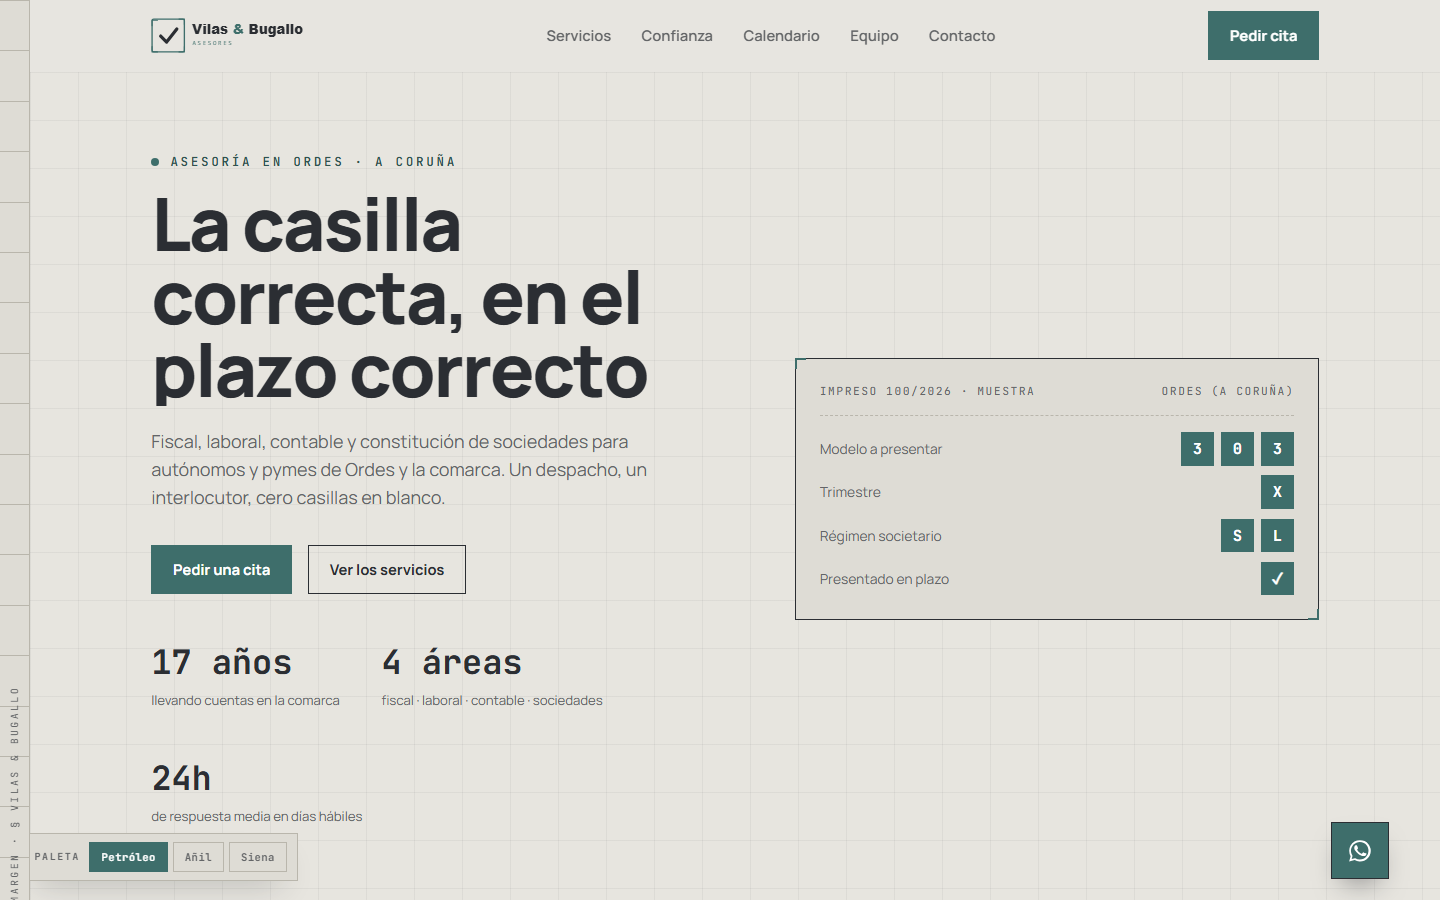
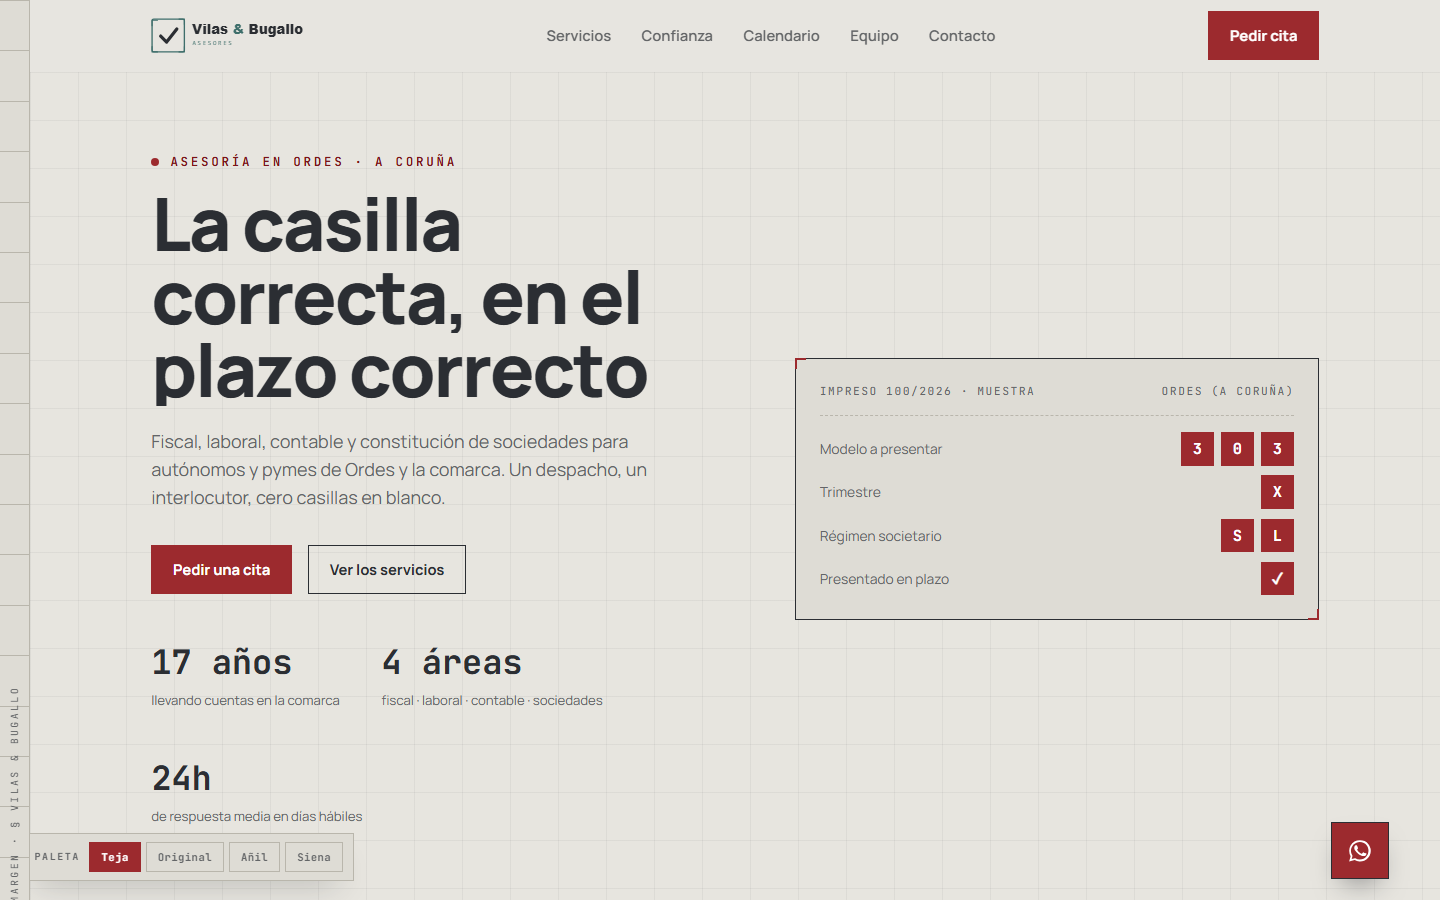
Pone el rojo real de Dourado & Fernández como paleta por defecto
Las 7 plantillas de asesoría/gestoría de la carpeta se van a enviar por
email al cliente real Dourado & Fernández para que compare estructura, no
color; Dourado ya tiene su propia web en su rojo real (--oro/--oro-tinta,
#9C2A2E/#7A1418). Para que las 7 lleguen ya en "su" color y el color deje
de ser una variable, ese rojo pasa a ser el valor por defecto en frío de
--petroleo/--petroleo-oscuro en :root (recalculado con scripts/contrast.js
para estos hexadecimales concretos, no asumido por parecido: 7.54:1 y
8.59:1, ambos por encima de los mínimos documentados).

El petróleo nativo de esta plantilla no desaparece: se convierte en un 4º
botón "Original" del mando de paleta (html.paleta-original), junto a
"Teja" (nuevo estado por defecto, sin clase), Añil y Siena. Actualizados
initPaleta() en js/main.js, el script bloqueante del <head>, el README y
scripts/verify.js (55/55, antes 54/54).

diff --git a/scripts/verify.js b/scripts/verify.js
@@ -376,25 +376,44 @@ async function recorrer(p, paso = 500, espera = 130) {
       const cs = getComputedStyle(document.documentElement);
       return {
         visible: document.getElementById('paleta').hidden === false,
-        pressed: document.getElementById('paleta-petroleo').getAttribute('aria-pressed'),
+        pressed: document.getElementById('paleta-teja').getAttribute('aria-pressed'),
+        sinClase: !document.documentElement.classList.contains('paleta-original') &&
+          !document.documentElement.classList.contains('paleta-anil') &&
+          !document.documentElement.classList.contains('paleta-siena'),
         petroleo: cs.getPropertyValue('--petroleo').trim()
       };
     });
-    ok('paleta: el mando aparece con JS y arranca en Petróleo',
-      inicial.visible && inicial.pressed === 'true' && inicial.petroleo.toLowerCase() === '#3e6e6b', inicial);
+    ok('paleta: el mando aparece con JS y arranca en frío en el rojo de Dourado & Fernández (Teja), sin localStorage',
+      inicial.visible && inicial.pressed === 'true' && inicial.sinClase &&
+      inicial.petroleo.toLowerCase() === '#9c2a2e', inicial);
+
+    await p.click('#paleta-original');
+    const original = await p.evaluate(() => ({
+      clase: document.documentElement.classList.contains('paleta-original'),
+      pressed: {
+        teja: document.getElementById('paleta-teja').getAttribute('aria-pressed'),
+        original: document.getElementById('paleta-original').getAttribute('aria-pressed')
+      },
+      petroleoVar: getComputedStyle(document.documentElement).getPropertyValue('--petroleo').trim(),
+      guardado: (() => { try { return localStorage.getItem('casillas-paleta'); } catch (e) { return null; } })()
+    }));
+    ok('paleta: Original recupera el petróleo nativo de la plantilla y marca aria-pressed',
+      original.clase && original.pressed.original === 'true' && original.pressed.teja === 'false' &&
+      original.petroleoVar.toLowerCase() === '#3e6e6b' && original.guardado === 'original', original);
 
     await p.click('#paleta-anil');
     const anil = await p.evaluate(() => ({
       clase: document.documentElement.classList.contains('paleta-anil'),
+      claseOriginalFuera: !document.documentElement.classList.contains('paleta-original'),
       pressed: {
-        petroleo: document.getElementById('paleta-petroleo').getAttribute('aria-pressed'),
+        original: document.getElementById('paleta-original').getAttribute('aria-pressed'),
         anil: document.getElementById('paleta-anil').getAttribute('aria-pressed')
       },
       petroleoVar: getComputedStyle(document.documentElement).getPropertyValue('--petroleo').trim(),
       guardado: (() => { try { return localStorage.getItem('casillas-paleta'); } catch (e) { return null; } })()
     }));
     ok('paleta: Añil cambia la variable --petroleo en vivo y marca aria-pressed',
-      anil.clase && anil.pressed.anil === 'true' && anil.pressed.petroleo === 'false' &&
+      anil.clase && anil.claseOriginalFuera && anil.pressed.anil === 'true' && anil.pressed.original === 'false' &&
       anil.petroleoVar.toLowerCase() === '#2c4a76' && anil.guardado === 'anil', anil);
 
     await p.click('#paleta-siena');
@@ -411,12 +430,13 @@ async function recorrer(p, paso = 500, espera = 130) {
        la imagen pilla el fotograma a medio camino entre colores */
     await p.waitForTimeout(300);
     const pulsados = await p.evaluate(() => ({
-      petroleo: document.getElementById('paleta-petroleo').getAttribute('aria-pressed'),
+      teja: document.getElementById('paleta-teja').getAttribute('aria-pressed'),
+      original: document.getElementById('paleta-original').getAttribute('aria-pressed'),
       anil: document.getElementById('paleta-anil').getAttribute('aria-pressed'),
       siena: document.getElementById('paleta-siena').getAttribute('aria-pressed')
     }));
     ok('paleta: solo el botón activo (Siena) queda marcado como pulsado',
-      pulsados.petroleo === 'false' && pulsados.anil === 'false' && pulsados.siena === 'true', pulsados);
+      pulsados.teja === 'false' && pulsados.original === 'false' && pulsados.anil === 'false' && pulsados.siena === 'true', pulsados);
     await p.screenshot({ path: path.join(CAPS, 'v-paleta-siena.png') });
 
     /* recarga: la paleta guardada se aplica sin parpadeo, antes de que

diff --git a/css/style.css b/css/style.css
@@ -17,17 +17,27 @@
   --papel-panel: #DEDCD5;      /* un paso más oscuro, para paneles sobre papel */
   --grafito: #2B2E33;
   --grafito-panel: #23262B;    /* un paso más oscuro que grafito, para fondos oscuros */
-  --petroleo: #3E6E6B;
-  --petroleo-oscuro: #2F5350;  /* petróleo oscurecido: 6.74:1 sobre papel (ver contrast.js) */
+  /* --petroleo/--petroleo-oscuro: DEMOSTRACIÓN — valor por defecto puesto
+     temporalmente al rojo real de Dourado & Fernández (oro/oro-tinta de su
+     propia plantilla) para el envío comparativo de las 7 plantillas de
+     asesoría/gestoría: así el cliente compara ESTRUCTURA, no color, porque
+     las 7 llegan ya en "su" rojo. El petróleo nativo de esta plantilla no
+     desaparece: sigue disponible como opción "Original" (ver bloque
+     "Control de paleta" más abajo). Contraste recalculado con
+     scripts/contrast.js para estos hexadecimales concretos (no se asume
+     que el ratio de Dourado se herede solo por ser un rojo parecido):
+     blanco sobre --petroleo = 7.54:1, --petroleo-oscuro sobre papel = 8.59:1. */
+  --petroleo: #9C2A2E;
+  --petroleo-oscuro: #7A1418;  /* como texto sobre papel: 8.59:1 (ver contrast.js) */
   --blanco: #FFFFFF;
 
   /* texto: cada apagado lleva su contraste medido con contrast.js ------- */
   --texto: var(--grafito);                 /* 10.82:1 sobre papel */
   --texto-apagado: #636567;                /* 4.65:1 sobre papel */
-  --texto-sobre-petroleo: var(--blanco);   /* 5.76:1 sobre petróleo */
+  --texto-sobre-petroleo: var(--blanco);   /* 7.54:1 sobre petroleo (Dourado) */
   --texto-sobre-grafito: var(--papel);     /* 10.82:1 sobre grafito */
   --texto-apagado-sobre-grafito: #9C9C9A;  /* 4.95:1 sobre grafito */
-  --texto-acento: var(--petroleo-oscuro);  /* petróleo como TEXTO (no como marca): 6.74:1 */
+  --texto-acento: var(--petroleo-oscuro);  /* petróleo como TEXTO (no como marca): 8.59:1 */
 
   --borde: #B9B6AC;
   --borde-fuerte: var(--grafito);
@@ -50,12 +60,22 @@
 /* -------------------------- Control de paleta --------------------------
    BLOQUE DE DEMOSTRACIÓN: se borra entero al entregar la web ya como
    oficial (ver README, "El control de paleta"). Solo cambia el color de
-   marca — el papel, el grafito y el texto son los mismos en las tres, y el
-   logo real no cambia de color con el mando. Contraste comprobado con
-   scripts/contrast.js: blanco sobre el color de relleno ≥5.76:1, y la
-   variante oscura como texto sobre papel ≥6.74:1, igual que el petróleo
-   real (--texto-acento toma la variante oscura por var(), así que sigue
-   el cambio de paleta sola). */
+   marca — el papel, el grafito y el texto son los mismos en las cuatro, y
+   el logo real no cambia de color con el mando. Contraste comprobado con
+   scripts/contrast.js para cada hexadecimal concreto (nunca asumido por
+   parecido): blanco sobre el color de relleno ≥5.76:1, y la variante
+   oscura como texto sobre papel ≥6.74:1 (--texto-acento toma la variante
+   oscura por var(), así que sigue el cambio de paleta sola).
+
+   El bare :root de arriba ya NO es el petróleo nativo de esta plantilla:
+   es el rojo real de Dourado & Fernández, puesto como valor por defecto
+   para el envío comparativo de las 7 plantillas de asesoría/gestoría (ver
+   nota junto a --petroleo en :root). El petróleo nativo se recupera con
+   la clase .paleta-original de aquí abajo. */
+html.paleta-original {
+  --petroleo: #3E6E6B; --petroleo-oscuro: #2F5350;  /* petróleo nativo de esta plantilla:
+    blanco/petroleo 5.76:1, petroleo-oscuro/papel 6.74:1 (ver contrast.js) */
+}
 html.paleta-anil {
   --petroleo: #2C4A76; --petroleo-oscuro: #1F3554;
 }

diff --git a/js/main.js b/js/main.js
@@ -68,34 +68,41 @@
   })();
 
   /* ---------------- El control de paleta ----------------
-     NO ES PARTE DEL SITIO. Es un mando para enseñar la misma web en tres
-     paletas de color delante del cliente mientras decide. Al entregar la
-     web ya como oficial se borra esta función, el bloque .paleta del CSS,
-     el <div id="paleta"> y la bandera del <head>. */
+     NO ES PARTE DEL SITIO. Es un mando para enseñar la misma web en cuatro
+     paletas de color delante del cliente mientras decide. "teja" (el rojo
+     real de Dourado & Fernández) es el estado por defecto, sin clase, para
+     el envío comparativo de las 7 plantillas de asesoría/gestoría;
+     "original" recupera el petróleo nativo de esta plantilla. Al entregar
+     la web ya como oficial se borra esta función, el bloque .paleta del
+     CSS, el <div id="paleta"> y la bandera del <head>. */
   (function initPaleta() {
     var caja = document.getElementById("paleta");
     var botones = {
-      petroleo: document.getElementById("paleta-petroleo"),
+      teja: document.getElementById("paleta-teja"),
+      original: document.getElementById("paleta-original"),
       anil: document.getElementById("paleta-anil"),
       siena: document.getElementById("paleta-siena")
     };
-    if (!caja || !botones.petroleo || !botones.anil || !botones.siena) return;
+    if (!caja || !botones.teja || !botones.original || !botones.anil || !botones.siena) return;
     var CLAVE_PALETA = "casillas-paleta";
 
     caja.hidden = false; // sin JS no se enseña: no haría nada
 
     function pintar(nombre, guardar) {
-      html.classList.remove("paleta-anil", "paleta-siena");
-      if (nombre !== "petroleo") html.classList.add("paleta-" + nombre);
+      html.classList.remove("paleta-original", "paleta-anil", "paleta-siena");
+      if (nombre !== "teja") html.classList.add("paleta-" + nombre);
       Object.keys(botones).forEach(function (k) {
         botones[k].setAttribute("aria-pressed", String(k === nombre));
       });
       if (guardar) { try { localStorage.setItem(CLAVE_PALETA, nombre); } catch (e) {} }
     }
 
-    var actual = html.classList.contains("paleta-anil") ? "anil" : html.classList.contains("paleta-siena") ? "siena" : "petroleo";
+    var actual = html.classList.contains("paleta-original") ? "original" :
+      html.classList.contains("paleta-anil") ? "anil" :
+      html.classList.contains("paleta-siena") ? "siena" : "teja";
     pintar(actual, false);
-    botones.petroleo.addEventListener("click", function () { pintar("petroleo", true); });
+    botones.teja.addEventListener("click", function () { pintar("teja", true); });
+    botones.original.addEventListener("click", function () { pintar("original", true); });
     botones.anil.addEventListener("click", function () { pintar("anil", true); });
     botones.siena.addEventListener("click", function () { pintar("siena", true); });
   })();

diff --git a/index.html b/index.html
@@ -61,11 +61,14 @@
 <script>
 /* Paleta elegida en el control de maqueta. Se resuelve aquí, antes de
    pintar, o la página arrancaría en una paleta y saltaría a otra.
+   Por defecto (sin nada guardado) el bare :root ya es el rojo de Dourado &
+   Fernández, así que no hace falta clase para ese estado; "original",
+   "anil" y "siena" sí son clases explícitas.
    CONTROL DE DEMOSTRACIÓN: ver README, "El control de paleta", para
    quitarlo al entregar la web ya como oficial. */
 try {
   var p = localStorage.getItem('casillas-paleta');
-  if (p === 'anil' || p === 'siena') document.documentElement.classList.add('paleta-' + p);
+  if (p === 'original' || p === 'anil' || p === 'siena') document.documentElement.classList.add('paleta-' + p);
 } catch (e) {}
 </script>
 </head>
@@ -497,14 +500,19 @@ try {
 
 <!-- ===================== CONTROL DE PALETA =====================
      Esto NO es parte del sitio: es un mando para enseñar la misma web con
-     tres paletas de color distintas delante del cliente, mientras decide.
-     Al entregar la web ya como oficial se borra este bloque, el bloque
-     .paleta del CSS, la función initPaleta() de main.js y la bandera del
-     <head>. Viene con [hidden]: sin JS no aparece, porque no haría nada. -->
+     cuatro paletas de color distintas delante del cliente, mientras decide.
+     "Teja" (el rojo real de Dourado & Fernández) es el estado por defecto,
+     sin clase, para el envío comparativo de las 7 plantillas de
+     asesoría/gestoría; "Original" recupera el petróleo nativo de esta
+     plantilla. Al entregar la web ya como oficial se borra este bloque, el
+     bloque .paleta del CSS, la función initPaleta() de main.js y la
+     bandera del <head>. Viene con [hidden]: sin JS no aparece, porque no
+     haría nada. -->
 <div class="paleta" id="paleta" hidden>
   <p class="paleta-rotulo">Paleta</p>
   <div class="paleta-botones" role="group" aria-label="Paleta de color de la maqueta">
-    <button type="button" id="paleta-petroleo" aria-pressed="true">Petróleo</button>
+    <button type="button" id="paleta-teja" aria-pressed="true">Teja</button>
+    <button type="button" id="paleta-original" aria-pressed="false">Original</button>
     <button type="button" id="paleta-anil" aria-pressed="false">Añil</button>
     <button type="button" id="paleta-siena" aria-pressed="false">Siena</button>
   </div>

diff --git a/scripts/contrast.js b/scripts/contrast.js
@@ -60,3 +60,18 @@ for (let t = 0; t <= 0.5; t += 0.05) {
   const c = mix(PETROLEO, '#000000', t);
   console.log('t=' + t.toFixed(2), c, contrast(c, PAPEL).toFixed(2));
 }
+
+/* --- control de paleta (demostración, ver README "El control de paleta") -
+   Dourado & Fernández es ahora el valor por defecto en :root (bare, sin
+   clase); "Original" es el petróleo nativo de arriba, movido a la clase
+   .paleta-original. No se asume que el ratio de Dourado se herede por ser
+   un rojo parecido: se recalcula aquí con sus hexadecimales reales. */
+console.log('\n--- control de paleta: blanco/relleno (target >=5.76) y oscura/papel (target >=6.74) ---');
+console.log('Teja (Dourado & Fernández, por defecto)  blanco/#9C2A2E =', contrast(BLANCO, '#9C2A2E').toFixed(2),
+  '  #7A1418/papel =', contrast('#7A1418', PAPEL).toFixed(2));
+console.log('Original (petróleo nativo)               blanco/#3E6E6B =', contrast(BLANCO, '#3E6E6B').toFixed(2),
+  '  #2F5350/papel =', contrast('#2F5350', PAPEL).toFixed(2));
+console.log('Añil                                      blanco/#2C4A76 =', contrast(BLANCO, '#2C4A76').toFixed(2),
+  '  #1F3554/papel =', contrast('#1F3554', PAPEL).toFixed(2));
+console.log('Siena                                     blanco/#8A4A28 =', contrast(BLANCO, '#8A4A28').toFixed(2),
+  '  #6B3A1F/papel =', contrast('#6B3A1F', PAPEL).toFixed(2));

diff --git a/README.md b/README.md
@@ -110,14 +110,28 @@ siguen funcionando aunque el CDN de GSAP esté caído.
 
 ## El control de paleta (demostración, quitar antes de dar la web por oficial)
 
-Mando flotante abajo a la izquierda (`Paleta · Petróleo / Añil / Siena`) para
-enseñar la misma web con tres colores de marca distintos delante del cliente,
-sin tener que retocar CSS en directo durante la reunión. Nació el
-2026-09-21, tras una reunión real con otro cliente del sector (Dourado &
-Fernández) que rechazó el verde de su plantilla; ahora es requisito estándar
-del pliego (§5, «Control de paleta») para todas las plantillas de la carpeta.
+Mando flotante abajo a la izquierda (`Paleta · Teja / Original / Añil /
+Siena`) para enseñar la misma web con cuatro colores de marca distintos
+delante del cliente, sin tener que retocar CSS en directo durante la
+reunión. Nació el 2026-09-21, tras una reunión real con otro cliente del
+sector (Dourado & Fernández) que rechazó el verde de su plantilla; ahora es
+requisito estándar del pliego (§5, «Control de paleta») para todas las
+plantillas de la carpeta.
 
-- **Petróleo** `#3E6E6B` / `#2F5350` — la paleta real de esta plantilla.
+**Actualización del mismo día:** Dourado & Fernández ya tiene su propia web
+en su rojo real (`dourado-fernandez-asesores-carballo-web`), y esa misma
+plantilla —junto con las otras 6 de asesoría/gestoría de la carpeta,
+incluida esta— se va a enviar por email al cliente para que compare
+ESTRUCTURA, no color. Por eso el rojo de Dourado & Fernández ("Teja" en el
+mando) pasa a ser el valor por defecto en frío (sin nada en `localStorage`):
+las 7 plantillas llegan ya en "su" color, y el color deja de ser una
+variable en la comparación. El petróleo nativo de esta plantilla no
+desaparece: se convierte en la opción "Original".
+
+- **Teja** `#9C2A2E` / `#7A1418` — el rojo real de Dourado & Fernández (su
+  `--oro` / `--oro-tinta`); **por defecto, sin clase, en frío**.
+- **Original** `#3E6E6B` / `#2F5350` — el petróleo nativo de esta plantilla,
+  ahora accesible con la clase `html.paleta-original`.
 - **Añil** `#2C4A76` / `#1F3554` — tinta añil, la que se usaba para sellos y
   matasellos oficiales.
 - **Siena** `#8A4A28` / `#6B3A1F` — tierra de sombra tostada, tono de archivo
@@ -125,25 +139,35 @@ del pliego (§5, «Control de paleta») para todas las plantillas de la carpeta.
 
 Solo cambian `--petroleo` y `--petroleo-oscuro` (y, con ellos, `--texto-acento`,
 que deriva del segundo por `var()`); el papel, el grafito y el texto son
-idénticos en las tres, así que ninguna variante se ve "lavada". Cada variante
-mantiene el mismo contraste mínimo comprobado con `scripts/contrast.js`: el
-color de relleno frente a `--blanco` ≥5,76:1, y la variante oscura como texto
-sobre `--papel` ≥6,74:1. La elección se recuerda en
-`localStorage` (`casillas-paleta`) y se aplica en el `<head>`, antes de
-pintar, para que no haya parpadeo al recargar. El mando nunca tapa el aviso
-de cookies: `js/main.js` mide el alto real del aviso mientras está abierto y
-lo guarda en la variable `--cookie-h`, que el mando usa para subir por
-encima de él.
+idénticos en las cuatro, así que ninguna variante se ve "lavada". Cada
+variante mantiene el mismo contraste mínimo comprobado con
+`scripts/contrast.js` para su propio hexadecimal (nunca asumido por
+parecido): el color de relleno frente a `--blanco` ≥5,76:1, y la variante
+oscura como texto sobre `--papel` ≥6,74:1 — Teja da 7,54:1 y 8,59:1. La
+elección se recuerda en `localStorage` (`casillas-paleta`) y se aplica en
+el `<head>`, antes de pintar, para que no haya parpadeo al recargar. El
+mando nunca tapa el aviso de cookies: `js/main.js` mide el alto real del
+aviso mientras está abierto y lo guarda en la variable `--cookie-h`, que el
+mando usa para subir por encima de él.
 
-Para quitarlo al entregar la web ya como oficial:
+Esquema de clases: **Teja** es el estado "bare" de `:root` (sin clase, es
+el que se ve en frío sin `localStorage`); **Original**, **Añil** y **Siena**
+son las tres clases explícitas (`html.paleta-original` /
+`html.paleta-anil` / `html.paleta-siena`).
+
+Para quitarlo al entregar la web ya como oficial (y devolver `--petroleo` /
+`--petroleo-oscuro` de `:root` al petróleo nativo `#3E6E6B` / `#2F5350` si
+el cliente final es esta plantilla y no Dourado & Fernández):
 
 1. En `index.html`: el bloque `<script>` del `<head>` que resuelve
    `casillas-paleta` (justo antes de `</head>`) y el bloque
    `<div class="paleta" id="paleta" hidden>...</div>` (antes del botón de
    WhatsApp flotante).
-2. En `css/style.css`: el bloque `html.paleta-anil` / `html.paleta-siena`
-   justo después de `:root`, y el bloque «Control de paleta» junto a las
-   reglas de `.whatsapp-flotante`. La variable `--cookie-h` de `:root` puede
+2. En `css/style.css`: los valores de `--petroleo` / `--petroleo-oscuro` en
+   `:root` (volver a `#3E6E6B` / `#2F5350` si procede), el bloque
+   `html.paleta-original` / `html.paleta-anil` / `html.paleta-siena` justo
+   después de `:root`, y el bloque «Control de paleta» junto a las reglas
+   de `.whatsapp-flotante`. La variable `--cookie-h` de `:root` puede
    quedarse (no hace nada por sí sola) o borrarse también.
 3. En `js/main.js`: la función `initPaleta()` completa, y el añadido de
    `--cookie-h` dentro de `avisoCookies()` (puede simplificarse de vuelta a
